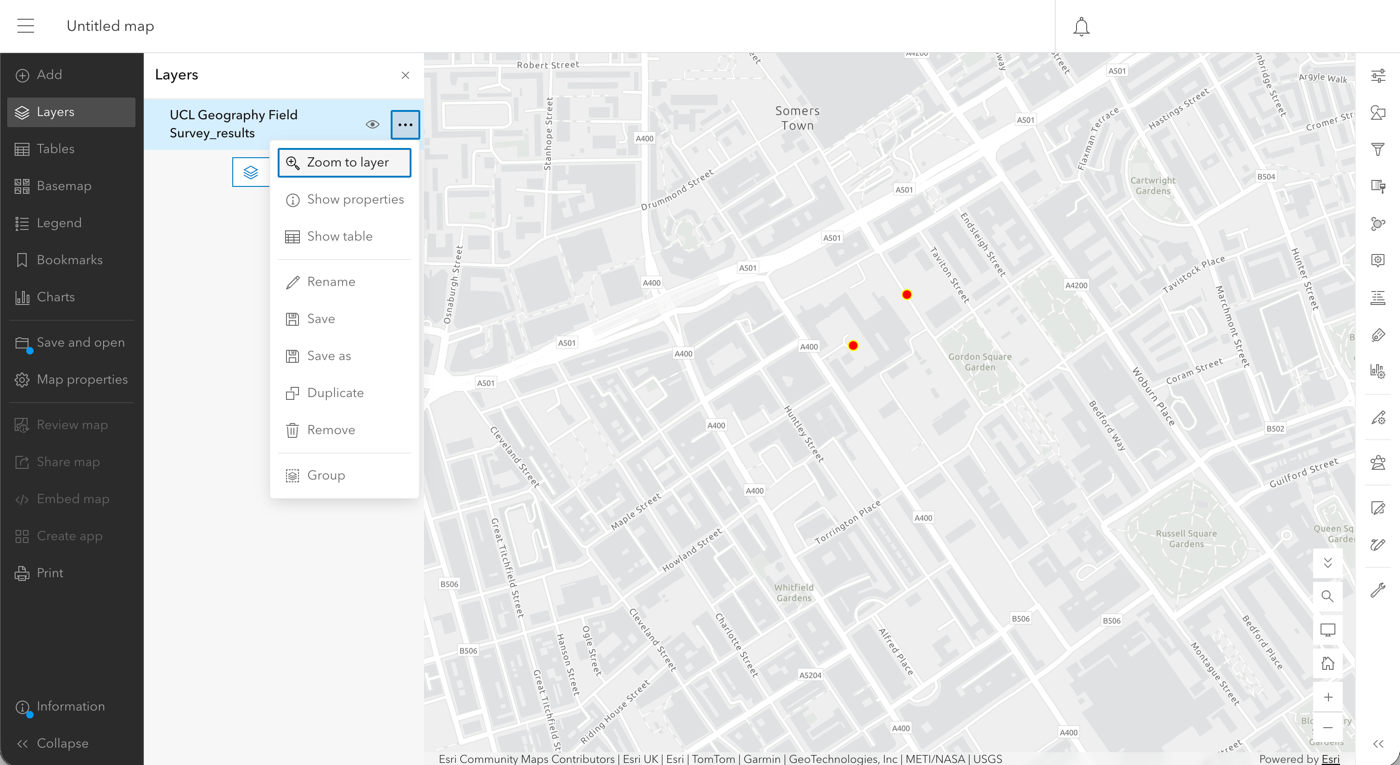
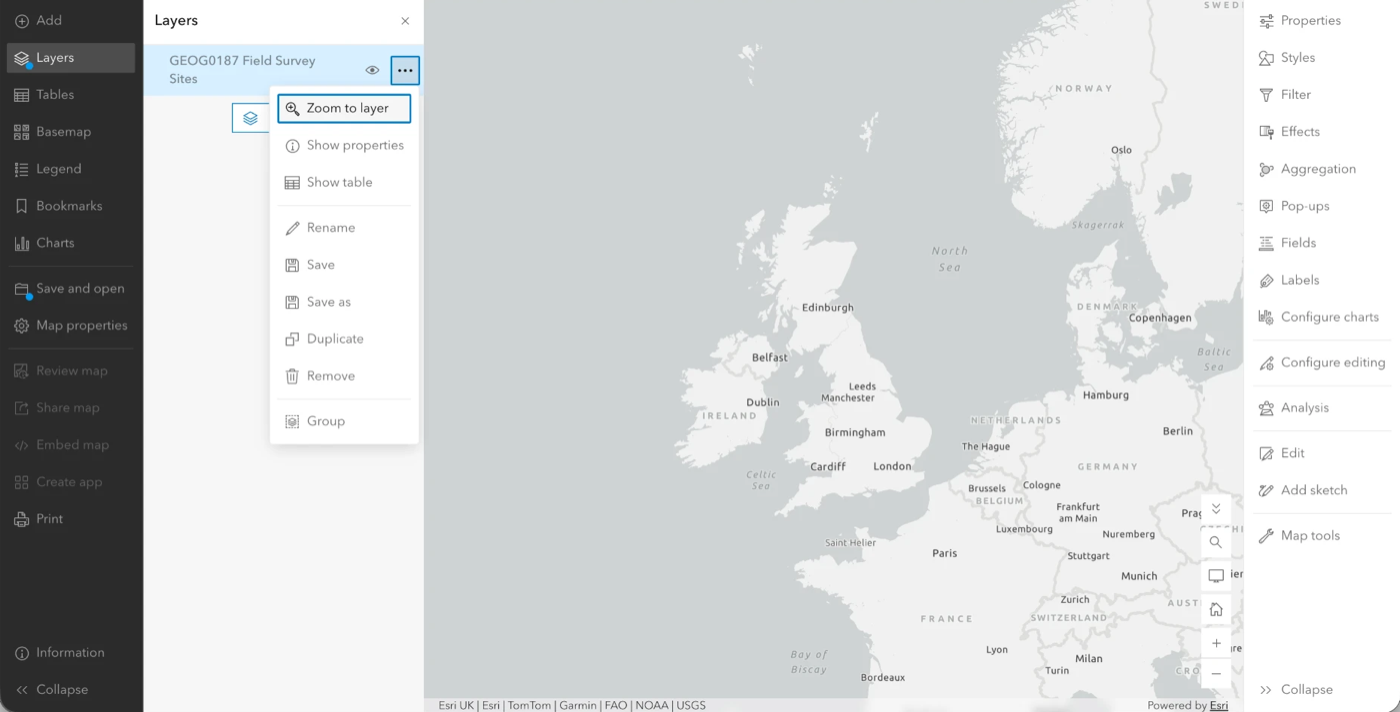
Page 02: six screenshots retaken with the public view; photo via Attachments

diff --git a/docs/02-mapping.html b/docs/02-mapping.html
@@ -538,10 +538,10 @@ Figure&nbsp;5: The survey layer in <span class="ui">Browse layers</span>, with <
 </div></li>
 <li><p>Click <span class="ui">Add</span> on the layer, and close the browse panel. The layer now appears under <span class="ui">Layers</span>, with the entries of the whole year. The map may not zoom to the points by itself; we will zoom in once we have filtered the layer.</p></li>
 <li><p>In <span class="ui">Layers</span> (left-hand toolbar), click the survey layer so that it is highlighted. Then click <span class="ui">Filter</span> on the right-hand toolbar (the funnel icon).</p>
-<div id="fig-layer-added" class="quarto-float quarto-figure quarto-figure-center anchored" alt="Map Viewer with the survey results layer in the Layers list, two points near Gordon Square, the Properties pane open and the Filter tooltip on the right-hand toolbar">
+<div id="fig-layer-added" class="quarto-float quarto-figure quarto-figure-center anchored" alt="Map Viewer with the Browse layers panel still open, the GEOG0187 Field Survey Sites layer added, and its Properties pane open next to Filter on the right-hand toolbar">
 <figure class="quarto-float quarto-float-fig figure">
 <div aria-describedby="fig-layer-added-caption-0ceaefa1-69ba-4598-a22c-09a6ac19f8ca">
-<img src="images/w02/layer-added.png" class="img-fluid figure-img" alt="Map Viewer with the survey results layer in the Layers list, two points near Gordon Square, the Properties pane open and the Filter tooltip on the right-hand toolbar">
+<img src="images/w02/layer-added.png" class="img-fluid figure-img" alt="Map Viewer with the Browse layers panel still open, the GEOG0187 Field Survey Sites layer added, and its Properties pane open next to Filter on the right-hand toolbar">
 </div>
 <figcaption class="quarto-float-caption-bottom quarto-float-caption quarto-float-fig" id="fig-layer-added-caption-0ceaefa1-69ba-4598-a22c-09a6ac19f8ca">
 Figure&nbsp;6: The survey layer added to the map, with <span class="ui">Filter</span> on the right-hand toolbar.
@@ -593,11 +593,11 @@ Figure&nbsp;8: The layer menu with <span class="ui">Zoom to layer</span>.
 </figcaption>
 </figure>
 </div></li>
-<li><p>Click on a point. Its pop-up shows the attributes and photo your working group entered. We will tidy up this pop-up later on.</p>
-<div id="fig-popup-default" class="quarto-float quarto-figure quarto-figure-center anchored" alt="Default pop-up listing Data Collection, Note, Site ID and Working Group Number (0.00), with a photo underneath">
+<li><p>Click on a point. Its pop-up shows the attributes your working group entered. We will tidy up this pop-up, and add the photo to it, later on.</p>
+<div id="fig-popup-default" class="quarto-float quarto-figure quarto-figure-center anchored" alt="Default pop-up titled GEOG0187 Field Survey Sites, listing Data Collection, Note, Site ID and Working Group Number (0.00), with the last edited date underneath">
 <figure class="quarto-float quarto-float-fig figure">
 <div aria-describedby="fig-popup-default-caption-0ceaefa1-69ba-4598-a22c-09a6ac19f8ca">
-<img src="images/w02/popup-default.png" class="img-fluid figure-img" alt="Default pop-up listing Data Collection, Note, Site ID and Working Group Number (0.00), with a photo underneath">
+<img src="images/w02/popup-default.png" class="img-fluid figure-img" alt="Default pop-up titled GEOG0187 Field Survey Sites, listing Data Collection, Note, Site ID and Working Group Number (0.00), with the last edited date underneath">
 </div>
 <figcaption class="quarto-float-caption-bottom quarto-float-caption quarto-float-fig" id="fig-popup-default-caption-0ceaefa1-69ba-4598-a22c-09a6ac19f8ca">
 Figure&nbsp;9: The default pop-up of a survey entry.
@@ -822,7 +822,7 @@ Figure&nbsp;21: The fields list with Site ID and Note.
 </figcaption>
 </figure>
 </div></li>
-<li><p>Check that <span class="ui">Attachments</span> is included, so that the photo is shown.</p></li>
+<li><p>Check that <span class="ui">Attachments</span> is included, so that the photo is shown. If it is not, click <span class="ui">Add content</span> → <span class="ui">Attachments</span>.</p></li>
 <li><p>Click on a few points on the map to check the result.</p>
 <div id="fig-popup-final" class="quarto-float quarto-figure quarto-figure-center anchored" alt="Pop-up titled S01 with Site ID S01, Note UCL Main Quad, and a photo of the UCL Portico">
 <figure class="quarto-float quarto-float-fig figure">
@@ -938,7 +938,7 @@ Figure&nbsp;24: The finished map for the <strong>test walk</strong>.
 </tr>
 <tr class="even">
 <td style="text-align: left;">The photo does not show in the pop-up</td>
-<td style="text-align: left;">Check that <span class="ui">Attachments</span> is switched on under <span class="ui">Pop-ups</span>. Note that not every entry has a photo.</td>
+<td style="text-align: left;">Check that <span class="ui">Attachments</span> is included under <span class="ui">Pop-ups</span>, or add it via <span class="ui">Add content</span> → <span class="ui">Attachments</span>. Note that not every entry has a photo.</td>
 </tr>
 <tr class="odd">
 <td style="text-align: left;">I cannot find my map next time</td>
